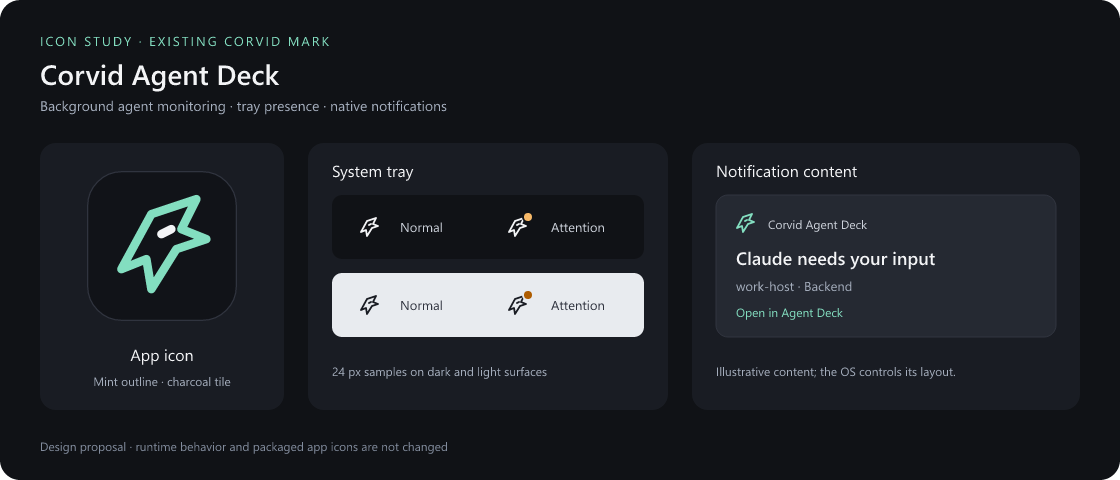
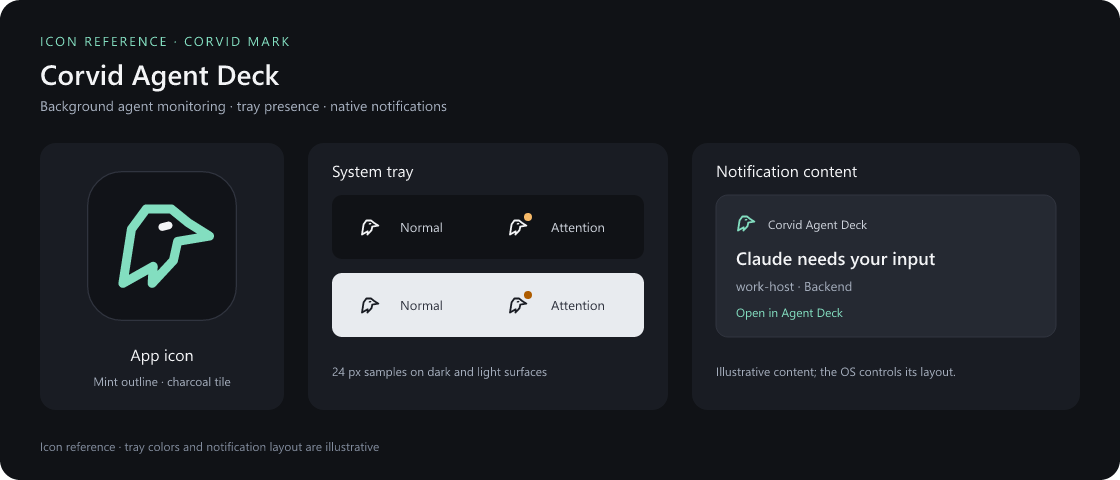
fix: align Deck branding with the refined crow

diff --git a/spikes/deck/src/art.rs b/spikes/deck/src/art.rs
@@ -1,6 +1,8 @@
 pub fn outline(glyph: &str) -> Option<&'static str> {
     Some(match glyph {
-        "brand" => "M4 17 10 6l9-3-3 6 5 2-6 2-5 8-1-6-5 2Z M12 10l2-1",
+        "brand" => {
+            "M5 19.5 6.6 9.3 9.4 5.5h4.7l3.2 2.6 4 2.5-6 1-.8 3.6-4 4.3.2-3.2Z M12.4 8.9l1.2-.3"
+        }
         "grid" => "M4 4h6v6H4z M14 4h6v6h-6z M4 14h6v6H4z M14 14h6v6h-6z",
         "focus" => {
             "M8 3H5a2 2 0 0 0-2 2v3 M16 3h3a2 2 0 0 1 2 2v3 M3 16v3a2 2 0 0 0 2 2h3 M21 16v3a2 2 0 0 1-2 2h-3 M12 8a4 4 0 1 0 0 8 4 4 0 0 0 0-8Z"
